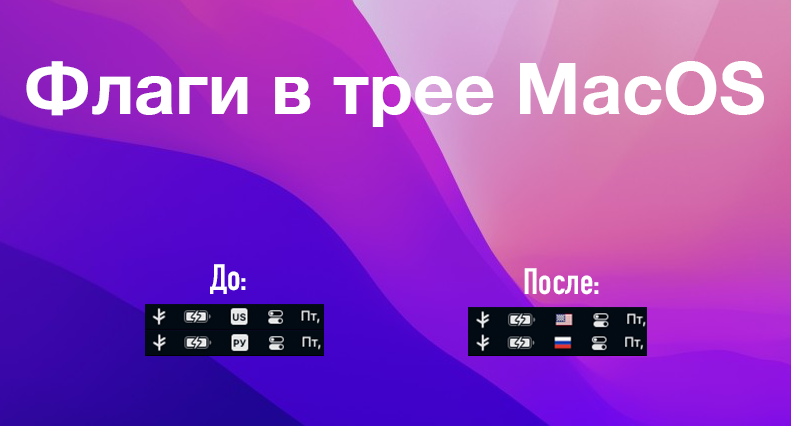
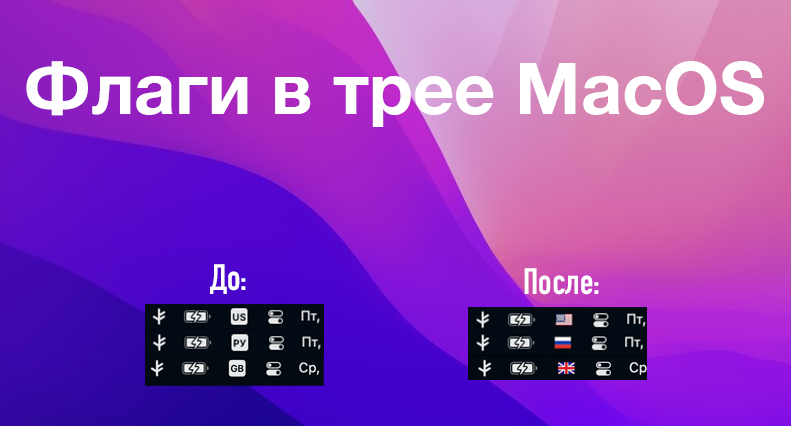
gb falg

Changed region(s): [[0.5765, 0.8239, 0.8192, 0.9155], [0.182, 0.8239, 0.4248, 0.9155]]

diff --git a/content/post/flags-tray-macos.md b/content/post/flags-tray-macos.md
@@ -10,14 +10,14 @@ Banner = "/img/flags-macos1.png"
 После обновления MacOS Monterey до 12.4, в трее изменилась иконка отображения текущей раскладки клавиатуры. Раньше были флаги, а теперь буквенное обозначение раскладки. Это выглядит красиво и лаканично, но в реальной жизни приходится всматриваться, чтобы понять какая сейчас раскладка включена. ~~Раньше было лучше, эпол верни всё взад~~. Покажу маленький костыль как вернуть обратно флаги в трей. 
 <!--more-->
 
-Этот способ я подсмотрел на [iphones.ru](https://www.iphones.ru/iNotes/kak-vernut-flagi-dlya-yazykov-klaviatury-v-status-bare-macos-124-i-novee-05-18-2022), однако там иконки сделаны неаккуратно, поэтому я заменил иконки на те, что более похожи на родные МакОСёвые.
+Этот способ я подсмотрел на [iphones.ru](https://www.iphones.ru/iNotes/kak-vernut-flagi-dlya-yazykov-klaviatury-v-status-bare-macos-124-i-novee-05-18-2022), однако там иконки сделаны неаккуратно, поэтому я заменил иконки на те, что более похожи на родные МакОСёвые. И еще я **добавил Британский флаг**
 
 ## Возвращаем флаги
 
 1. Скачиваем [ru-keyboard-with-icon.bundle.zip](/files/ru-keyboard-with-icon.bundle.zip) и распаковываем.
 2. Кладем ```ru-keyboard-with-icon.bundle``` файл в ```/Library/Keyboard Layouts```. Для этого в Finder нажимаем ```Сommand + Shift + G``` и переходим в нужный каталог.
 3. Перезагружаемся 
-4. В настройках Клавиатуры добавляем источники ввода "США (Флаг)" и "Русская (Флаг):
+4. В настройках Клавиатуры добавляем источники ввода "США (Флаг)"/"Британская (Флаг)" и "Русская (Флаг):
 ![Настройки клавиатуры](/img/flags-macos.png)
 
 5. Вы великолепны!
